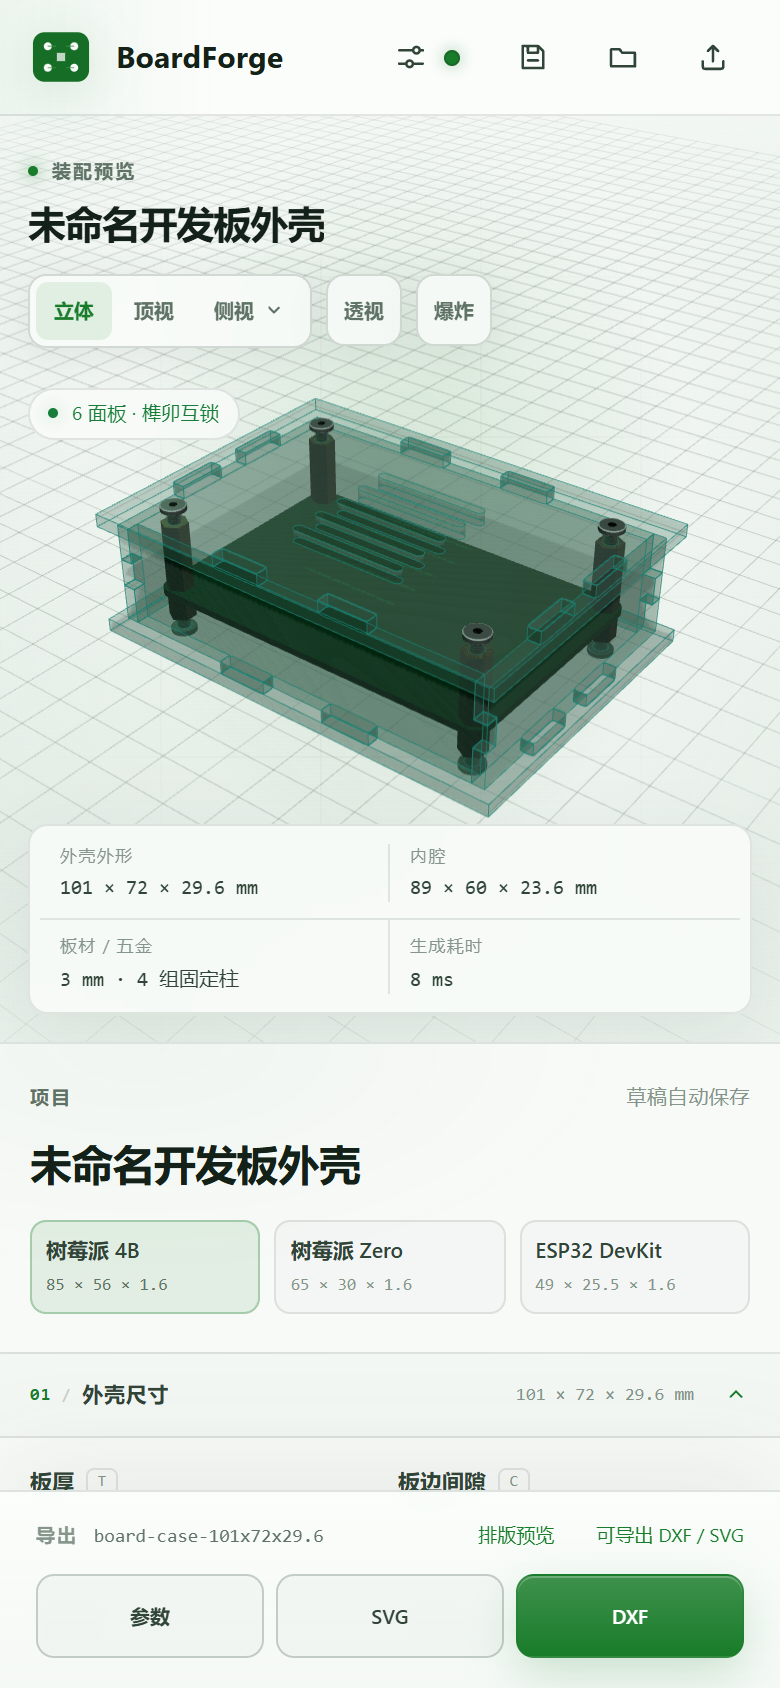
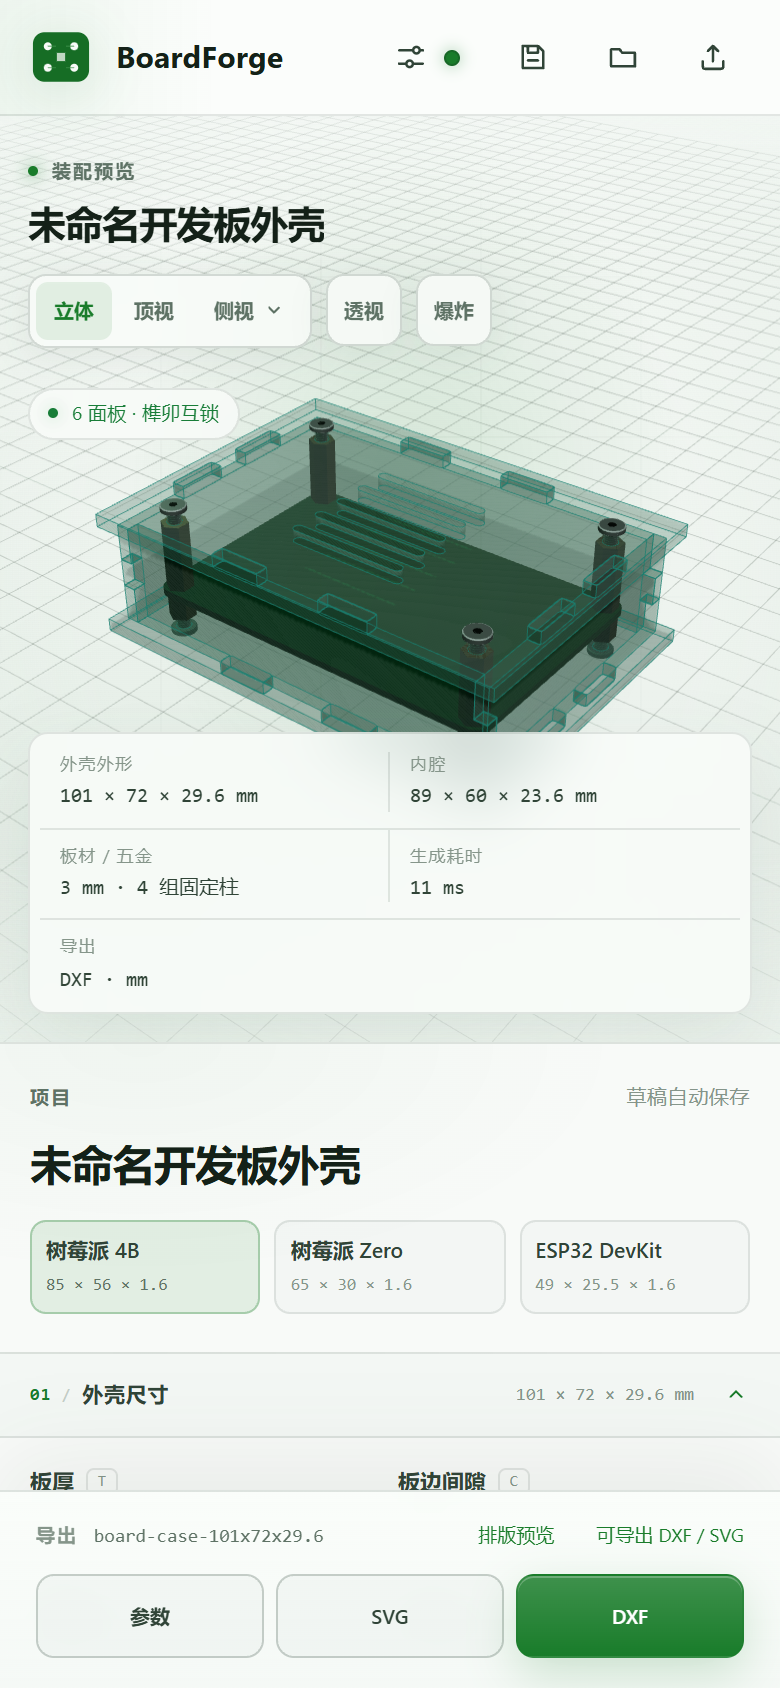
调整：顶栏信息移入预览统计栏并精简顶栏

diff --git a/dist/index.html b/dist/index.html
@@ -202,37 +202,6 @@ input[type="number"] {
   letter-spacing: 0.06em;
 }
 
-.topbar-center {
-  display: flex;
-  align-items: center;
-  gap: 13px;
-  margin-left: auto;
-  color: var(--dim);
-  font-size: 11px;
-  letter-spacing: 0.04em;
-}
-
-.topbar-tag {
-  display: inline-flex;
-  align-items: center;
-  gap: 7px;
-  white-space: nowrap;
-}
-
-.tag-dot {
-  width: 5px;
-  height: 5px;
-  border-radius: 999px;
-  background: var(--accent);
-  box-shadow: 0 0 8px rgba(var(--accent-rgb), 0.9);
-}
-
-.topbar-divider {
-  width: 1px;
-  height: 13px;
-  background: var(--line-strong);
-}
-
 .topbar-actions {
   display: flex;
   align-items: center;
@@ -3683,10 +3652,6 @@ html[data-mode="light"] .toast-icon {
     flex-basis: 58px;
   }
 
-  .topbar-center {
-    display: none;
-  }
-
   .brand-sub {
     display: none;
   }
@@ -4015,14 +3980,21 @@ html[data-mode="light"] .toast-icon {
     min-width: 0;
   }
 
-  .stat:nth-child(2) {
+  .stat:nth-child(2),
+  .stat:nth-child(4) {
     border-right: 0;
   }
 
   .stat:nth-child(3),
-  .stat:nth-child(4) {
+  .stat:nth-child(4),
+  .stat:nth-child(5) {
     border-top: 1px solid var(--line);
     padding-top: 7px;
+  }
+
+  .stat:nth-child(5) {
+    grid-column: 1 / -1;
+    border-right: 0;
   }
 
   .scene-notices {
@@ -4131,12 +4103,6 @@ html[data-mode="light"] .toast-icon {
             <span class="brand-name">BoardForge</span>
             <span class="brand-sub">开发板亚克力外壳生成器</span>
           </span>
-        </div>
-
-        <div class="topbar-center" aria-hidden="true">
-          <span class="topbar-tag"><span class="tag-dot"></span> 纯前端运算</span>
-          <span class="topbar-divider"></span>
-          <span class="topbar-tag">DXF · mm</span>
         </div>
 
         <div class="topbar-actions">
@@ -4520,6 +4486,10 @@ html[data-mode="light"] .toast-icon {
             <div class="stat">
               <span class="stat-label">生成耗时</span>
               <span class="stat-value" id="statTime">—</span>
+            </div>
+            <div class="stat stat-export">
+              <span class="stat-label">导出</span>
+              <span class="stat-value">DXF · mm</span>
             </div>
           </div>
 

diff --git a/styles.css b/styles.css
@@ -179,37 +179,6 @@ input[type="number"] {
   letter-spacing: 0.06em;
 }
 
-.topbar-center {
-  display: flex;
-  align-items: center;
-  gap: 13px;
-  margin-left: auto;
-  color: var(--dim);
-  font-size: 11px;
-  letter-spacing: 0.04em;
-}
-
-.topbar-tag {
-  display: inline-flex;
-  align-items: center;
-  gap: 7px;
-  white-space: nowrap;
-}
-
-.tag-dot {
-  width: 5px;
-  height: 5px;
-  border-radius: 999px;
-  background: var(--accent);
-  box-shadow: 0 0 8px rgba(var(--accent-rgb), 0.9);
-}
-
-.topbar-divider {
-  width: 1px;
-  height: 13px;
-  background: var(--line-strong);
-}
-
 .topbar-actions {
   display: flex;
   align-items: center;
@@ -3660,10 +3629,6 @@ html[data-mode="light"] .toast-icon {
     flex-basis: 58px;
   }
 
-  .topbar-center {
-    display: none;
-  }
-
   .brand-sub {
     display: none;
   }
@@ -3992,14 +3957,21 @@ html[data-mode="light"] .toast-icon {
     min-width: 0;
   }
 
-  .stat:nth-child(2) {
+  .stat:nth-child(2),
+  .stat:nth-child(4) {
     border-right: 0;
   }
 
   .stat:nth-child(3),
-  .stat:nth-child(4) {
+  .stat:nth-child(4),
+  .stat:nth-child(5) {
     border-top: 1px solid var(--line);
     padding-top: 7px;
+  }
+
+  .stat:nth-child(5) {
+    grid-column: 1 / -1;
+    border-right: 0;
   }
 
   .scene-notices {

diff --git a/index.html b/index.html
@@ -55,12 +55,6 @@
           </span>
         </div>
 
-        <div class="topbar-center" aria-hidden="true">
-          <span class="topbar-tag"><span class="tag-dot"></span> 纯前端运算</span>
-          <span class="topbar-divider"></span>
-          <span class="topbar-tag">DXF · mm</span>
-        </div>
-
         <div class="topbar-actions">
           <button class="btn btn-quiet settings-button" id="settingsButton" type="button" aria-haspopup="dialog" aria-expanded="false" title="界面与预览设置">
             <svg viewBox="0 0 20 20" aria-hidden="true"><path d="M3 6h8M15.5 6H17M3 14h4M11.5 14H17" /><circle cx="13.2" cy="6" r="1.9" /><circle cx="9.2" cy="14" r="1.9" /></svg>
@@ -442,6 +436,10 @@
             <div class="stat">
               <span class="stat-label">生成耗时</span>
               <span class="stat-value" id="statTime">—</span>
+            </div>
+            <div class="stat stat-export">
+              <span class="stat-label">导出</span>
+              <span class="stat-value">DXF · mm</span>
             </div>
           </div>
 
